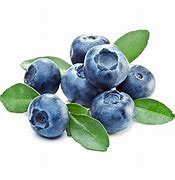
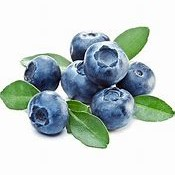
resized and replaced images

diff --git a/src/main/resources/templates/products.html b/src/main/resources/templates/products.html
@@ -3,7 +3,7 @@
 
 <head>
     <meta charset="utf-8">
-    <meta name="viewport" content="width=device-width, initial-scale=1">
+    <meta name="viewport" content="width=device-width">
     <link href="https://cdn.jsdelivr.net/npm/bootstrap@5.2.1/dist/css/bootstrap.min.css" rel="stylesheet">
     <script src="https://cdn.jsdelivr.net/npm/bootstrap@5.2.1/dist/js/bootstrap.bundle.min.js"></script>
     <title>Products</title>
@@ -29,16 +29,21 @@
         </nav>
     </header>
     <a th:href="@{/products/new}">Create New Product</a>
-    <div class="card" th:each="product : ${products}">
-        <div class="card-body">
-            <h4 class="card-title" th:text="${product.code}">Product Code</h4>
-            <p class="card-text">
-                <img class="card-img-top" th:src="@{/images/{image}(image=${product.image})}" alt="Fruit image">
-                <span th:text="${product.variety} + ' ' + ${product.size} + ' oz'">Product Variety and size</span><br>
-                <span th:text="'Status: ' + ${product.status}">Availability</span><br>
-                <span th:text="${product.price}">Price</span>
-            </p>
-            <a th:href="@{/products/edit/{id}(id=${product.id})}" class="btn btn-primary">Update Product</a>
+
+    <div class="row">
+        <div class="card col-sm-3" th:each="product : ${products}">
+            <div class="card-body">
+                <h4 class="card-title" th:text="${product.code}">Product Code</h4>
+                <p class="card-text">
+                    <img class="card-img-top img-thumbnail img-fluid"
+                        th:src="@{/images/{image}(image=${product.image})}" alt="Fruit image">
+                    <span th:text="'Variety: ' + ${product.variety} + ' ' + ${product.size} + ' oz'">Product Variety and
+                        size</span><br>
+                    <span th:text="'Status: ' + ${product.status}">Availability</span><br>
+                    <span th:text="'Price: ' + ${product.price}">Price</span>
+                </p>
+                <a th:href="@{/products/edit/{id}(id=${product.id})}" class="btn btn-primary">Update Product</a>
+            </div>
         </div>
     </div>
 

diff --git a/src/main/resources/templates/edit_product.html b/src/main/resources/templates/edit_product.html
@@ -31,11 +31,11 @@
             <label>Product ID: </label>
             <input type="text" th:field="*{id}" title="id" disabled>
             <label>Product Code:</label>
-            <input type="text" th:field="*{code}" title="code" disabled>
+            <input type="text" th:field="*{code}" title="code">
             <label>Variety:</label>
-            <input type="text" th:field="*{variety}" title="variety" disabled>
+            <input type="text" th:field="*{variety}" title="variety">
             <label>Size:</label>
-            <input type="number" th:field="*{size}" title="size" disabled>
+            <input type="number" th:field="*{size}" title="size">
             <label>Price:</label>
             <input type="number" th:field="*{price}" title="price">
             <label>Status:</label>
